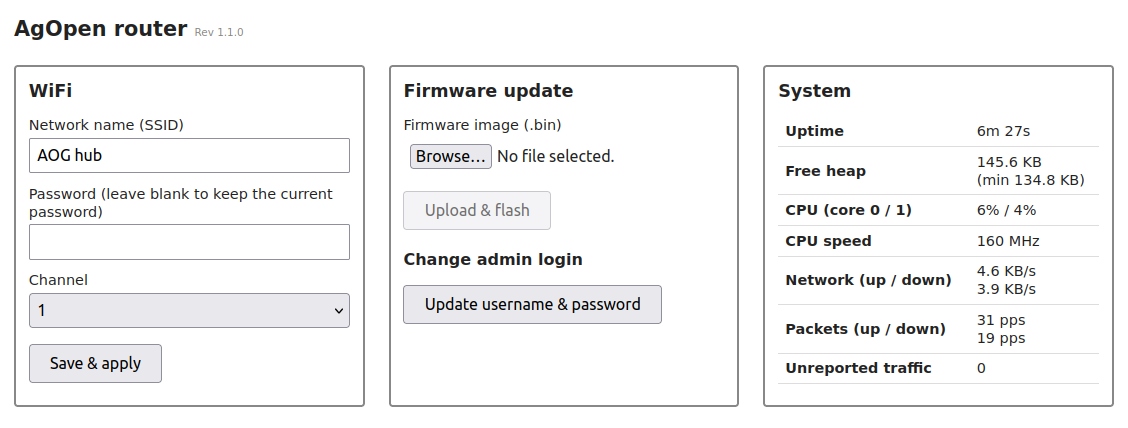
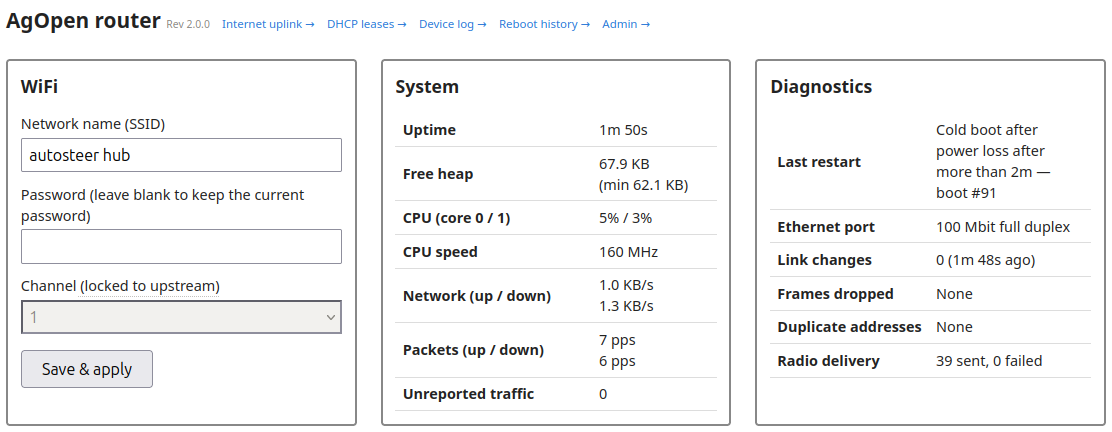
Move firmware update off the dashboard
The dashboard is the page you leave open and watch: it polls three endpoints a
second to drive the client table, the traffic graph and the stats panels.
Flashing firmware is the opposite kind of act - deliberate, rare, and finished
by a reboot. It sat there anyway, sharing a panel with a button whose whole job
was to link to /admin.

/admin was already the place for both. It is the settings page, it is what that
button opened, and it is now reachable directly from an "Admin" link in the
dashboard header alongside the other four. This follows /wan for the reason
given when that moved: what is set once or read while diagnosing does not want
to share a refresh cycle with the client table.

The upload had a second reason to go. The device serves HTTP from a single
worker task, so an upload streaming into flash blocks the poll for its whole
duration, and the dashboard carried an otaUploading flag for no purpose other
than suppressing its own "lost connection" banner while that happened. A page
that does not poll does not need the flag, the banner interaction, or the
comment explaining them, so all three are gone rather than moved.

One case the move creates: while the admin password is still the default,
/api/ota answers 403 like every other API route, and /admin?forced=1 is the
only page served in that state. The panel is hidden there - the alternative is
an upload button whose only possible outcome is a rejection, on the one screen
[…]

diff --git a/main/webpage/index.html b/main/webpage/index.html
@@ -51,11 +51,6 @@
   #chart-legend .legend-item i { display: inline-block; width: 0.7em; height: 0.7em; border-radius: 2px; margin-right: 0.3em; }
   #traffic-canvas { width: 100%; height: 160px; display: block; margin-top: 0.4em; cursor: crosshair; }
   #chart-tooltip { font-size: 0.85em; color: var(--chart-muted); height: 1.2em; margin-top: 0.2em; }
-  #ota-progress { width: 100%; margin-top: 0.8em; height: 1.2em; display: none; }
-  #ota-progress.show { display: block; }
-  #ota-msg { margin-top: 0.6em; font-size: 0.9em; }
-  #ota-msg.error { color: #b00020; }
-  #ota-msg.ok { color: #0a7a2f; }
   td.warn { color: #b00020; font-weight: 600; }
   /* Short enough to never need the panel's full width, so pinning it to one
      line cannot push the table wider than the panel on a phone. */
@@ -70,7 +65,8 @@
 <a href="/wan" style="font-size: 0.55em; font-weight: normal; color: #2a78d6; text-decoration: none; margin-left: 0.6em;">Internet uplink &rarr;</a>
 <a href="/leases" style="font-size: 0.55em; font-weight: normal; color: #2a78d6; text-decoration: none; margin-left: 0.6em;">DHCP leases &rarr;</a>
 <a href="/logs" style="font-size: 0.55em; font-weight: normal; color: #2a78d6; text-decoration: none; margin-left: 0.6em;">Device log &rarr;</a>
-<a href="/resets" style="font-size: 0.55em; font-weight: normal; color: #2a78d6; text-decoration: none; margin-left: 0.6em;">Reboot history &rarr;</a></h1>
+<a href="/resets" style="font-size: 0.55em; font-weight: normal; color: #2a78d6; text-decoration: none; margin-left: 0.6em;">Reboot history &rarr;</a>
+<a href="/admin" style="font-size: 0.55em; font-weight: normal; color: #2a78d6; text-decoration: none; margin-left: 0.6em;">Admin &rarr;</a></h1>
 
 <div class="panels">
 
@@ -94,20 +90,6 @@
   <button type="submit">Save &amp; apply</button>
   <div id="wifi-msg"></div>
 </form>
-</div>
-
-<div class="panel">
-<h2>Firmware update</h2>
-<form id="ota-form">
-  <label for="ota-file">Firmware image (.bin)</label>
-  <input type="file" id="ota-file" accept=".bin">
-
-  <button type="submit" id="ota-submit" disabled>Upload &amp; flash</button>
-  <progress id="ota-progress" value="0" max="100"></progress>
-  <div id="ota-msg"></div>
-</form>
-<p style="margin-top: 1.2em; margin-bottom: 0;"><strong>Change admin login</strong></p>
-<button type="button" id="admin-login-btn">Update username &amp; password</button>
 </div>
 
 <div class="panel">
@@ -752,7 +734,6 @@ async function refreshSystem() {
 }
 
 let failCount = 0;
-let otaUploading = false;
 let pollTimer = null;
 // setInterval fires every second regardless of how long the previous poll took,
 // so without this guard slow cycles stack up. That is not a hypothetical: the
@@ -766,7 +747,7 @@ let pollTimer = null;
 let polling = false;
 let wanTick = 0;
 async function poll() {
-  if (otaUploading || polling) return;
+  if (polling) return;
   polling = true;
   try {
     await refreshClients();
@@ -882,88 +863,6 @@ async function refreshWanChannelNote() {
     sel.disabled = false;
   }
 }
-
-document.getElementById('admin-login-btn').addEventListener('click', () => {
-  location.href = '/admin';
-});
-
-document.getElementById('ota-file').addEventListener('change', (e) => {
-  document.getElementById('ota-submit').disabled = !e.target.files.length;
-});
-
-document.getElementById('ota-form').addEventListener('submit', (e) => {
-  e.preventDefault();
-  const fileInput = document.getElementById('ota-file');
-  const file = fileInput.files[0];
-  if (!file) return;
-  if (!confirm('Flash "' + file.name + '" and reboot the device? This cannot be interrupted once started.')) {
-    return;
-  }
-
-  const submitBtn = document.getElementById('ota-submit');
-  const msg = document.getElementById('ota-msg');
-  const bar = document.getElementById('ota-progress');
-  msg.textContent = 'Uploading…';
-  msg.className = '';
-  bar.value = 0;
-  bar.classList.add('show');
-  fileInput.disabled = true;
-  submitBtn.disabled = true;
-  // The device's HTTP server handles one request at a time, so it can't
-  // also answer the 1s status poll while this upload is streaming into
-  // flash - suppress the "lost connection" banner for that expected gap
-  // instead of letting it stomp on the upload progress UI.
-  otaUploading = true;
-  document.getElementById('banner').classList.remove('show', 'restarting');
-
-  const xhr = new XMLHttpRequest();
-  xhr.open('POST', '/api/ota');
-  xhr.setRequestHeader('Content-Type', 'application/octet-stream');
-
-  xhr.upload.addEventListener('progress', (ev) => {
-    if (ev.lengthComputable) {
-      const pct = Math.round((ev.loaded / ev.total) * 100);
-      bar.value = pct;
-      msg.textContent = pct < 100 ? ('Uploading… ' + pct + '%') : 'Verifying and flashing…';
-    }
-  });
-
-  xhr.onload = () => {
-    let data;
-    try {
-      data = JSON.parse(xhr.responseText);
-    } catch (e) {
-      data = null;
-    }
-    if (data && data.ok) {
-      bar.value = 100;
-      msg.textContent = 'Flash successful — rebooting…';
-      msg.className = 'ok';
-      const banner = document.getElementById('banner');
-      banner.textContent = 'Firmware updated — bridge is rebooting…';
-      banner.classList.add('show', 'restarting');
-      setTimeout(() => location.reload(), 5000);
-    } else {
-      otaUploading = false;
-      msg.textContent = (data && data.error) || 'Flash failed';
-      msg.className = 'error';
-      bar.classList.remove('show');
-      fileInput.disabled = false;
-      submitBtn.disabled = false;
-    }
-  };
-
-  xhr.onerror = () => {
-    otaUploading = false;
-    msg.textContent = 'Upload failed — could not reach the bridge';
-    msg.className = 'error';
-    bar.classList.remove('show');
-    fileInput.disabled = false;
-    submitBtn.disabled = false;
-  };
-
-  xhr.send(file);
-});
 
 loadStatus();
 poll();

diff --git a/main/webpage/admin.html b/main/webpage/admin.html
@@ -3,15 +3,22 @@
 <head>
 <meta charset="utf-8">
 <meta name="viewport" content="width=device-width, initial-scale=1">
-<title>AgOpen router &ndash; Admin login</title>
+<title>AgOpen router &ndash; Admin</title>
 <style>
-  body { font-family: sans-serif; max-width: 420px; margin: 2em auto; padding: 0 1em; color: #222; }
+  body { font-family: sans-serif; max-width: 700px; margin: 2em auto; padding: 0 1em; color: #222; }
   h1 { font-size: 1.3em; }
-  a.back { font-size: 0.9em; text-decoration: none; color: #2a78d6; }
+  h1 a { font-size: 0.7em; font-weight: normal; color: #2a78d6; text-decoration: none; margin-left: 0.6em; }
+  h1 a:hover { text-decoration: underline; }
   .panel { border: 2px solid #888; border-radius: 4px; padding: 0.8em; margin-top: 1em; }
+  .panel h2 { margin-top: 0; font-size: 1.05em; }
   label { display: block; margin-top: 0.8em; font-size: 0.9em; }
   input { width: 100%; box-sizing: border-box; padding: 0.4em; margin-top: 0.2em; font-size: 1em; }
   button { margin-top: 1em; padding: 0.5em 1.2em; font-size: 1em; }
+  #ota-progress { width: 100%; margin-top: 0.8em; height: 1.2em; display: none; }
+  #ota-progress.show { display: block; }
+  #ota-msg { margin-top: 0.6em; font-size: 0.9em; }
+  #ota-msg.error { color: #b00020; }
+  #ota-msg.ok { color: #0a7a2f; }
   #admin-msg { margin-top: 0.6em; font-size: 0.9em; }
   #admin-msg.error { color: #b00020; }
   #admin-msg.ok { color: #0a7a2f; }
@@ -21,11 +28,23 @@
 </head>
 <body>
 
-<a class="back" id="back-link" href="/">&larr; Back to router</a>
-<h1>Admin login</h1>
+<h1>Admin <a href="/" id="back-link">&larr; Dashboard</a></h1>
 <div id="forced-banner">You're using the default admin password. Set a new password below to continue. You will be asked to log in again after saving.</div>
 
+<div class="panel" id="ota-panel">
+<h2>Firmware update</h2>
+<form id="ota-form">
+  <label for="ota-file">Firmware image (.bin)</label>
+  <input type="file" id="ota-file" accept=".bin">
+
+  <button type="submit" id="ota-submit" disabled>Upload &amp; flash</button>
+  <progress id="ota-progress" value="0" max="100"></progress>
+  <div id="ota-msg"></div>
+</form>
+</div>
+
 <div class="panel">
+<h2>Admin login</h2>
 <form id="admin-form">
   <label for="new-admin-user">New admin username (leave blank to keep the current one)</label>
   <input type="text" id="new-admin-user" maxlength="31" autocomplete="off">
@@ -47,7 +66,85 @@ if (new URLSearchParams(location.search).get('forced') === '1') {
   // and drop the "leave blank" wording that contradicts that.
   document.getElementById('new-admin-password').required = true;
   document.querySelector('label[for="new-admin-password"]').textContent = 'New admin password';
+  // While the password is still the default, /api/ota answers 403 like every
+  // other API route (send_setup_required() in web_server.c) - this page is only
+  // served at all so the password can be changed. Don't offer a control the
+  // server is going to refuse.
+  document.getElementById('ota-panel').style.display = 'none';
 }
+
+document.getElementById('ota-file').addEventListener('change', (e) => {
+  document.getElementById('ota-submit').disabled = !e.target.files.length;
+});
+
+// XMLHttpRequest rather than fetch() on purpose: upload progress events are the
+// one thing fetch() still cannot report, and a firmware upload over WiFi is long
+// enough that a progress bar is the difference between "working" and "hung".
+document.getElementById('ota-form').addEventListener('submit', (e) => {
+  e.preventDefault();
+  const fileInput = document.getElementById('ota-file');
+  const file = fileInput.files[0];
+  if (!file) return;
+  if (!confirm('Flash "' + file.name + '" and reboot the device? This cannot be interrupted once started.')) {
+    return;
+  }
+
+  const submitBtn = document.getElementById('ota-submit');
+  const msg = document.getElementById('ota-msg');
+  const bar = document.getElementById('ota-progress');
+  msg.textContent = 'Uploading…';
+  msg.className = '';
+  bar.value = 0;
+  bar.classList.add('show');
+  fileInput.disabled = true;
+  submitBtn.disabled = true;
+
+  const xhr = new XMLHttpRequest();
+  xhr.open('POST', '/api/ota');
+  // csrf_check() requires this exact type on /api/ota.
+  xhr.setRequestHeader('Content-Type', 'application/octet-stream');
+
+  xhr.upload.addEventListener('progress', (ev) => {
+    if (ev.lengthComputable) {
+      const pct = Math.round((ev.loaded / ev.total) * 100);
+      bar.value = pct;
+      msg.textContent = pct < 100 ? ('Uploading… ' + pct + '%') : 'Verifying and flashing…';
+    }
+  });
+
+  xhr.onload = () => {
+    let data;
+    try {
+      data = JSON.parse(xhr.responseText);
+    } catch (e) {
+      data = null;
+    }
+    if (data && data.ok) {
+      bar.value = 100;
+      msg.textContent = 'Flash successful — rebooting…';
+      msg.className = 'ok';
+      // The dashboard, not back here: its header carries the firmware revision,
+      // which is the one thing worth seeing after an update lands.
+      setTimeout(() => { location.href = '/'; }, 5000);
+    } else {
+      msg.textContent = (data && data.error) || 'Flash failed';
+      msg.className = 'error';
+      bar.classList.remove('show');
+      fileInput.disabled = false;
+      submitBtn.disabled = false;
+    }
+  };
+
+  xhr.onerror = () => {
+    msg.textContent = 'Upload failed — could not reach the bridge';
+    msg.className = 'error';
+    bar.classList.remove('show');
+    fileInput.disabled = false;
+    submitBtn.disabled = false;
+  };
+
+  xhr.send(file);
+});
 
 document.getElementById('admin-form').addEventListener('submit', async (e) => {
   e.preventDefault();

diff --git a/README.md b/README.md
@@ -277,10 +277,9 @@ deauthentication frames; WPA2 encryption of data is unaffected.
 
 ## Web UI
 
-Browse to the device (`192.168.5.1` by default) for WiFi settings, firmware update, and live
-system stats:
+Browse to the device (`192.168.5.1` by default) for WiFi settings and live system stats:
 
-![The web UI: WiFi settings, firmware update, and system stats](docs/web-ui.png)
+![The web UI: WiFi settings and system stats](docs/web-ui.png)
 
 Further down the same page, every connected client (WiFi and Ethernet) is listed with its
 live throughput. "Graph" plots that client's traffic over the last 30 seconds, switchable
@@ -463,6 +462,19 @@ so the three never disagree about one boot. Lines follow in fixed columns:
 The filename carries the boot number and uptime (`wt32-bridge-log-boot12-12041s.txt`) rather
 than a date, for the same reason the timestamps are what they are.
 
+### Admin page
+
+"Admin →" in the header opens `/admin`, which holds firmware update and the admin login. Both
+are the same kind of thing as the uplink settings — done deliberately, rarely, and never while
+watching the client table — so they live off the dashboard for the reason given under
+[Internet uplink page](#internet-uplink-page). Firmware update had a second reason to move: the
+device serves HTTP from a single worker task, so an upload streaming into flash blocks the
+dashboard's one-second poll, and the dashboard had to carry a flag suppressing its own "lost
+connection" banner for the duration. On a page that does not poll, the problem does not exist.
+
+While the admin password is still the default the firmware panel is hidden, because `/api/ota`
+answers `403` in that state along with every other API route — see below.
+
 ## Web UI login
 
 The web UI (`/`) and settings page (`/admin`) are behind HTTP Basic Auth. Until changed, the
@@ -477,7 +489,7 @@ but the pages needed to change it. `/` redirects to `/admin`, and every `/api/*`
 until setup is finished. Setting a new password is what unlocks it; the username is not a
 secret and changing it alone doesn't count.
 
-Change it from `/admin` (linked via the "Update username & password" button on the main page)
+Change it from `/admin` (the "Admin →" link in the dashboard header)
 or with the serial console's `admin` command (see below). The console applies the same rule, so
 `admin -u <name>` on a fresh device fails until you pass `-p <password>` too.
 
@@ -772,7 +784,7 @@ reboots with the default WiFi AP and `admin`/`admin` web login restored.
 - `main/reset_log.c` / `.h` — why the device restarted, kept in flash across reboots
 - `main/rail_witness.c` / `.h` — PHY-register marker distinguishing a reset from a power cycle
 - `main/webpage/index.html` — the web UI itself
-- `main/webpage/admin.html` — the `/admin` settings page
+- `main/webpage/admin.html` — the `/admin` settings page: firmware update and the admin login
 - `main/webpage/logs.html` — the `/logs` device log page, with the syslog settings panel
 - `main/webpage/leases.html` — the `/leases` DHCP table page
 - `main/webpage/resets.html` — the `/resets` reboot history page
